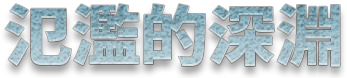
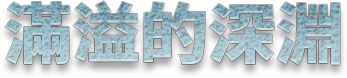
需求調整

diff --git a/css/mb_page.css b/css/mb_page.css
@@ -147,7 +147,7 @@
         background-size: contain;
         background-repeat: no-repeat;
         background-position: center;
-        height: 1132px;
+        height: 1127px;
         width: 646px;
     }
 
@@ -500,6 +500,7 @@
         background-size: contain;
         height: 74px;
         width: 342px;
+        margin-top: 25px;
     }
 
     .page--r-raid-forbiddenrock .mobile-content .section--reef .area__content .area__content__wrap ._header ._tab {
@@ -571,6 +572,12 @@
         display: block;
     }
 
+    .page--r-raid-forbiddenrock .mobile-content .section--reef .area__content .area__content__wrap ._content ._display-item.type--2 .swiper_box {
+        display: flex;
+        align-items: center;
+        justify-content: center;
+    }
+
     .page--r-raid-forbiddenrock .mobile-content .section--reef .area__content .area__content__wrap ._content ._display-item.type--2 .swiper_box .swiper_video .video_con .swiper_btn {
         color: #0000 !important;
         font-size: 0 !important;
@@ -635,7 +642,7 @@
     }
 
     .page--r-raid-forbiddenrock .mobile-content .section--bertes .area__content .area__content__wrap ._spec {
-        margin-bottom: 70px;
+        margin-bottom: 30px;
         margin-top: 30px;
         align-items: center;
         column-gap: 360px;
@@ -714,12 +721,11 @@
     }
 
     .page--r-raid-forbiddenrock .mobile-content .section--bertes .area__content .area__content__wrap ._title .topTitle {
-        background-image: url(../img/mo/p4-top-title.png);
-        background-position: 50%;
-        background-repeat: no-repeat;
-        background-size: contain;
-        width: 200px;
-        height: 63px;
+        font-size: 24px;
+        color: #a0cfe0;
+        font-family: "Noto Serif TC", serif;
+        font-weight: 400;
+        text-shadow: 0 0 2px #000000b0;
     }
 
     .page--r-raid-forbiddenrock .mobile-content .section--bertes .area__content .area__content__wrap ._title .desc {
@@ -821,12 +827,11 @@
     }
 
     .page--r-raid-forbiddenrock .mobile-content .section--reef .area__content .area__content__wrap ._header ._title .topTitle {
-        background-image: url(../img/mo/p3-top-title.png);
-        background-position: 50%;
-        background-repeat: no-repeat;
-        background-size: contain;
-        width: 200px;
-        height: 63px;
+        font-size: 24px;
+        color: #a0cfe0;
+        font-family: "Noto Serif TC", serif;
+        font-weight: 400;
+        text-shadow: 0 0 2px #000000b0;
     }
 
     .page--r-raid-forbiddenrock .mobile-content .section--reef .area__content .area__content__wrap ._header ._title .subTitle {
@@ -889,7 +894,7 @@
     }
 
     .page--r-raid-forbiddenrock .mobile-content .section--raid .area__content .area__content__wrap ._detail {
-        height: 566px;
+        height: 563.5px;
         width: 323px;
     }
 
@@ -907,9 +912,8 @@
         margin-top: 3.0555555556vw;
     }
 
-    .page--r-raid-forbiddenrock .mobile-content .section--reef .area__content .area__content__wrap ._header ._title .topTitle {
-        width: 100px;
-        height: 31.5px;
+    .page--r-raid-forbiddenrock .mobile-content .section--reef .area__content .area__content__wrap ._header ._title sup {
+        margin-top: 15px;
     }
 
     .page--r-raid-forbiddenrock .mobile-content .section--reef .area__content .area__content__wrap ._header ._title .subTitle {
@@ -927,6 +931,8 @@
     .page--r-raid-forbiddenrock .mobile-content .section--reef .area__content .area__content__wrap ._header ._tab {
         width: 326px;
         height: 29px;
+        margin-bottom: 30px;
+        margin-top: 0px;
     }
 
     .page--r-raid-forbiddenrock .mobile-content .section--reef .area__content .area__content__wrap ._header ._tab ._tab-button.--l:before,
@@ -939,18 +945,18 @@
         font-size: 17px;
     }
 
-    .page--r-raid-forbiddenrock .mobile-content section.section--bertes {
-        height: 750px;
+    .page--r-raid-forbiddenrock .mobile-content .section--reef .area__content .area__content__wrap ._header ._title {
+        margin-bottom: 20px;
     }
 
-    .page--r-raid-forbiddenrock .mobile-content .section--bertes .area__content .area__content__wrap ._title .topTitle {
-        width: 100px;
-        height: 31.5px;
+    .page--r-raid-forbiddenrock .mobile-content section.section--bertes {
+        height: 750px;
     }
 
     .page--r-raid-forbiddenrock .mobile-content .section--bertes .area__content .area__content__wrap ._title sup {
         width: 242px;
         height: 40px;
+        margin-top: 15px;
     }
 
     .page--r-raid-forbiddenrock .mobile-content .section--bertes .area__content .area__content__wrap ._detail .reword {

diff --git a/index.html b/index.html
@@ -322,7 +322,7 @@
                     <button class="page_p4">禁忌的貝勒泰斯</button>
                   </li>
                   <li class="depth_1">
-                    <button class="page_p5">氾濫的深淵</button>
+                    <button class="page_p5">滿溢的深淵</button>
                   </li>
                 </ol>
               </div>
@@ -447,17 +447,7 @@
                   data-title="混沌團戰"
                 >
                   <section class="section--raid area">
-                    <div class="area__visual --visualOn"></div>
-                    <div class="area__visual">
-                      <span class="_dimmed"></span>
-                      <video
-                        loop
-                        autoplay
-                        muted
-                        playsinline
-                        src="./img/pc/sec3_bg_1.mp4"
-                      ></video>
-                    </div>
+                    <div class="area__visual"></div>
                     <div class="area__content">
                       <div class="area__content__wrap">
                         <div class="_title">
@@ -840,7 +830,7 @@
                 <div class="area__content__wrap">
                   <div class="_header">
                     <div class="_title">
-                      <div class="topTitle"></div>
+                      <div class="topTitle">全新地區</div>
                       <sup></sup>
                       <div class="subTitle">
                         妖精為獲得深淵力量，在克隆北海孤島展開實驗。
@@ -956,7 +946,7 @@
                     </div>
                   </div>
                   <div class="_title">
-                    <div class="topTitle"></div>
+                    <div class="topTitle">全新首領</div>
                     <sup></sup>
                     <div class="desc">
                       妖精們為了研究而創造通往深淵的路，

diff --git a/css/pc_page.css b/css/pc_page.css
@@ -906,6 +906,7 @@ body.use-mouse .nav-side ._wrap ol li button:hover {
     background-size: cover;
     width: 200px;
     height: 63px;
+    margin-top: 120px;
 }
 
 .page--r-raid-forbiddenrock .pc-content .section--bertes .area__content .area__content__wrap ._spec {
@@ -913,7 +914,7 @@ body.use-mouse .nav-side ._wrap ol li button:hover {
     column-gap: 360px;
     display: flex;
     justify-content: center;
-    margin-top: 180px;
+    margin-top: 60px;
 }
 
 .page--r-raid-forbiddenrock .pc-content .section--bertes .area__content .area__content__wrap ._spec .group {
